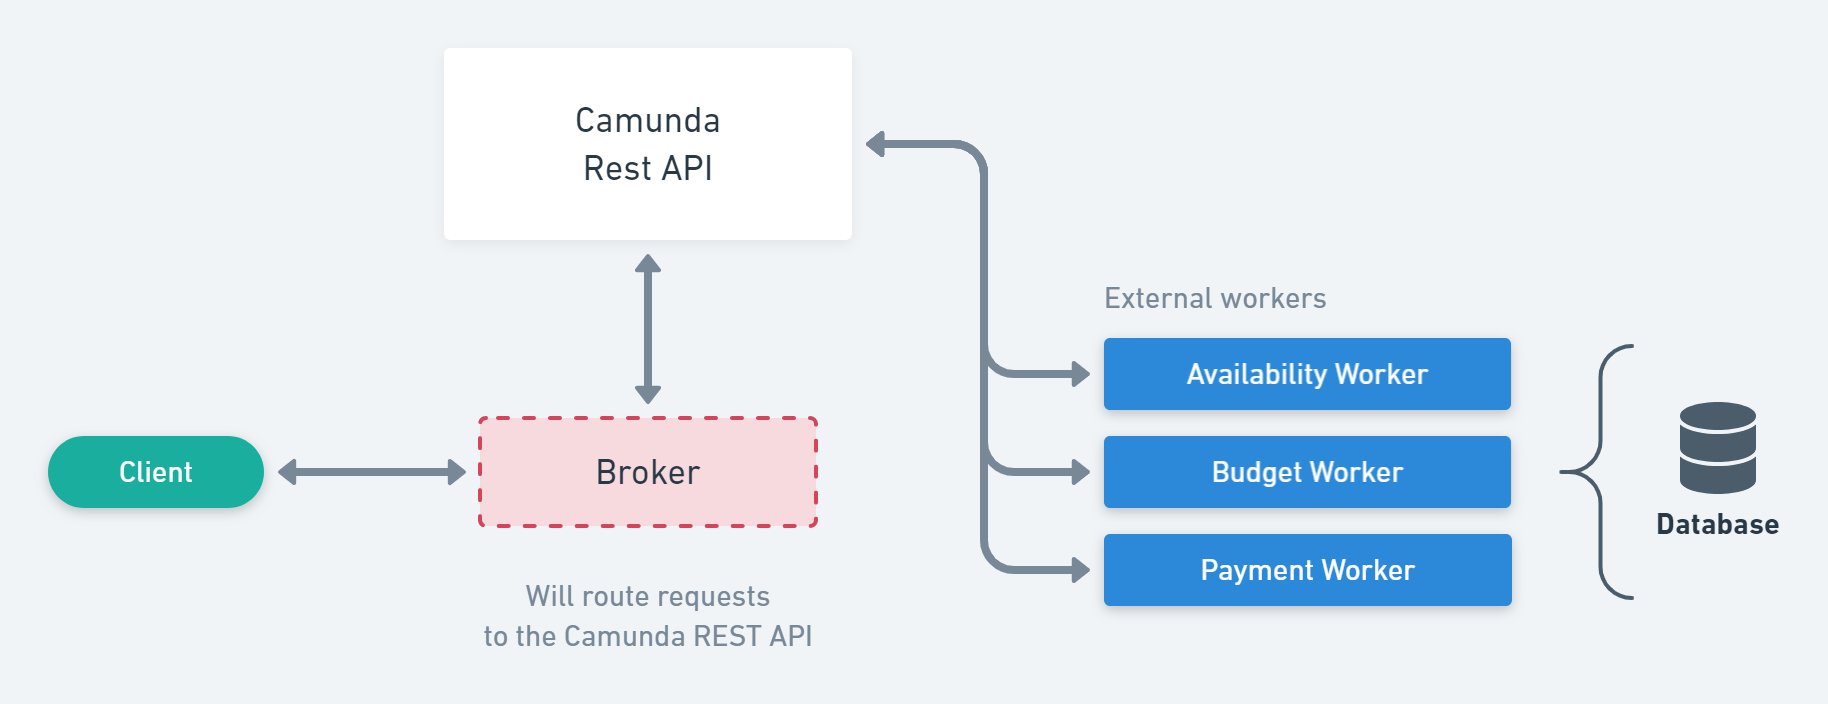
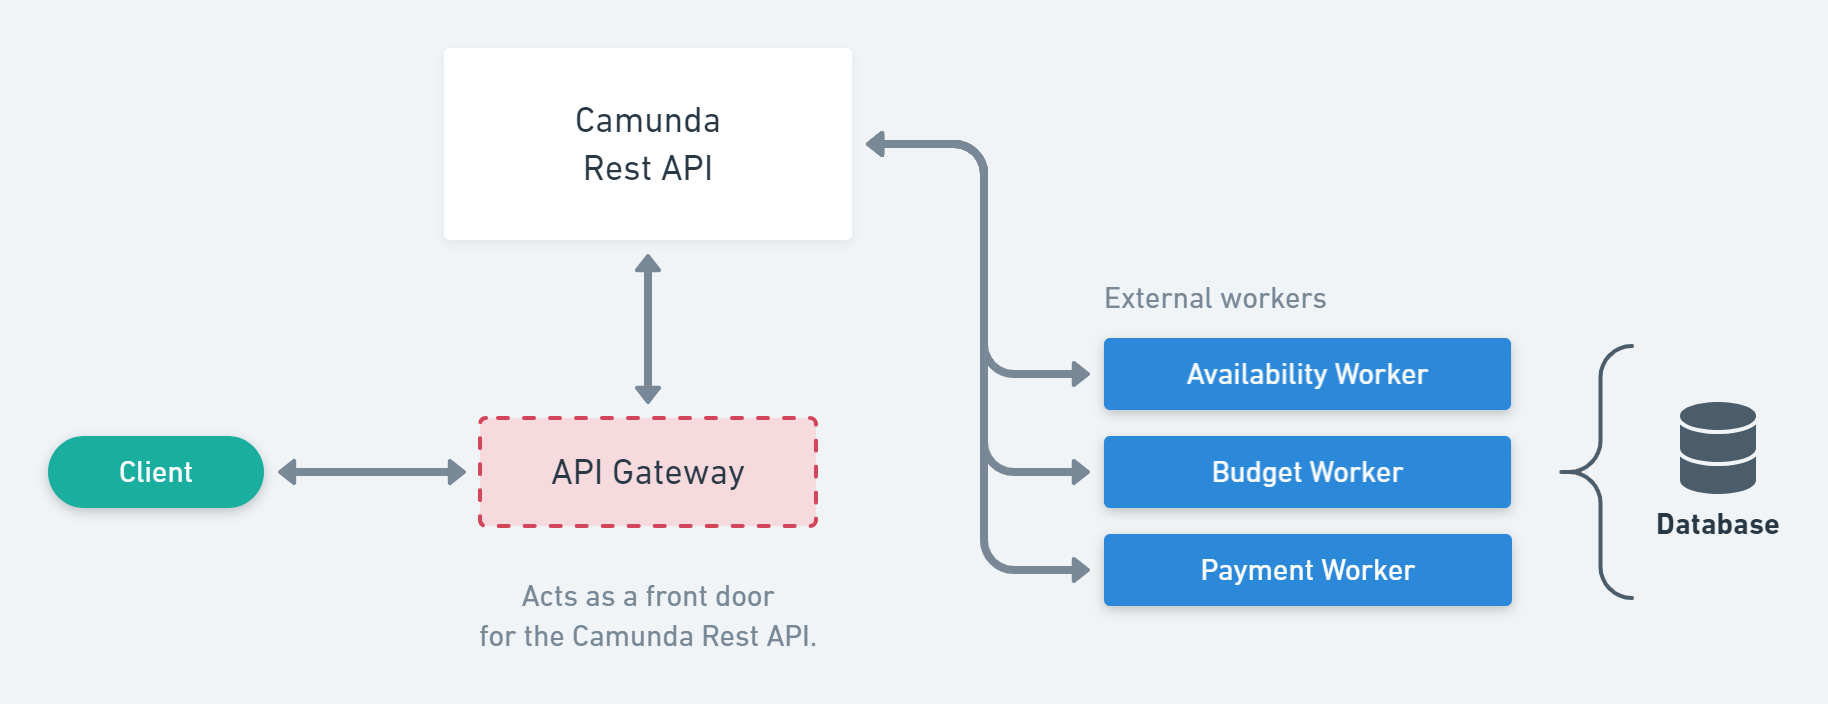
rename "broker" to "gateway" and update architecture.png

Changed region(s): [[0.2495, 0.8125, 0.4677, 0.9375], [0.2806, 0.6562, 0.4054, 0.6875]]

diff --git a/gateway/index.js b/gateway/index.js
@@ -11,4 +11,8 @@ app.use('/_', needsAuthorization, camundaRoute())
 // Health route
 app.get('/', (req, res) => res.sendStatus(200))
 
-module.exports = app
+const port = process.env.PORT || 8081
+app.listen(port, () => {
+  console.log(`> API Gateway started at http://localhost:${port}`)
+})
+
